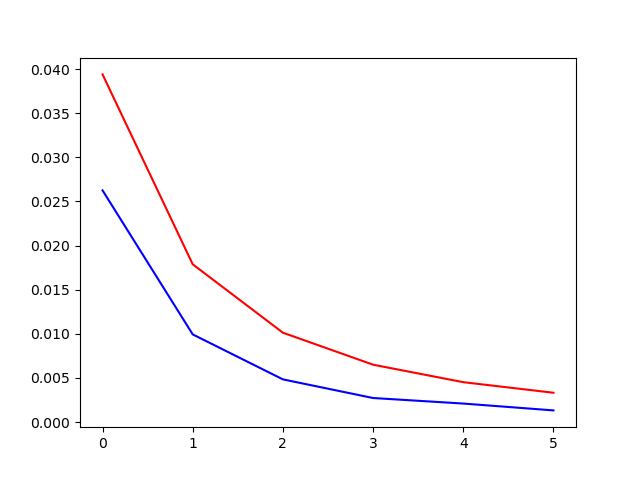
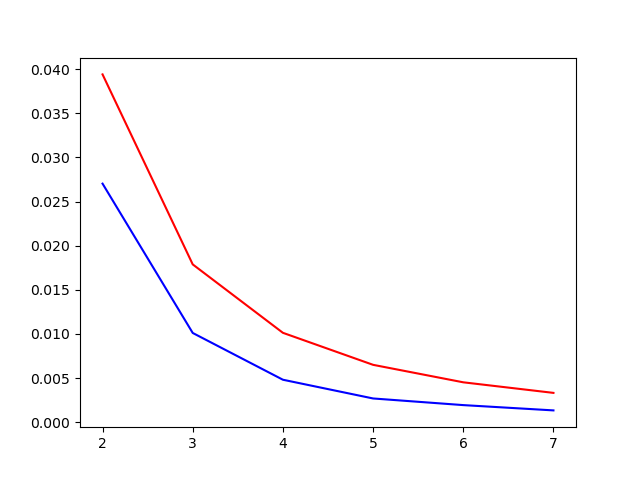
AmmErr png update

diff --git a/AmpErr/error_amp2freg.py b/AmpErr/error_amp2freg.py
@@ -64,7 +64,7 @@ for i_exp, exp_ratio in enumerate(exp_s):
 amp_err = np.sqrt(np.mean(np.power(errors_amp, 2), 1))
 
 plt.figure()
-plt.plot(amp_err, 'blue')       # experimental
-plt.plot(errors_win, 'red')     # theoretical
+plt.plot(exp_s, amp_err,  'blue')       # experimental
+plt.plot(exp_s, errors_win,  'red')     # theoretical
 
 plt.show()
